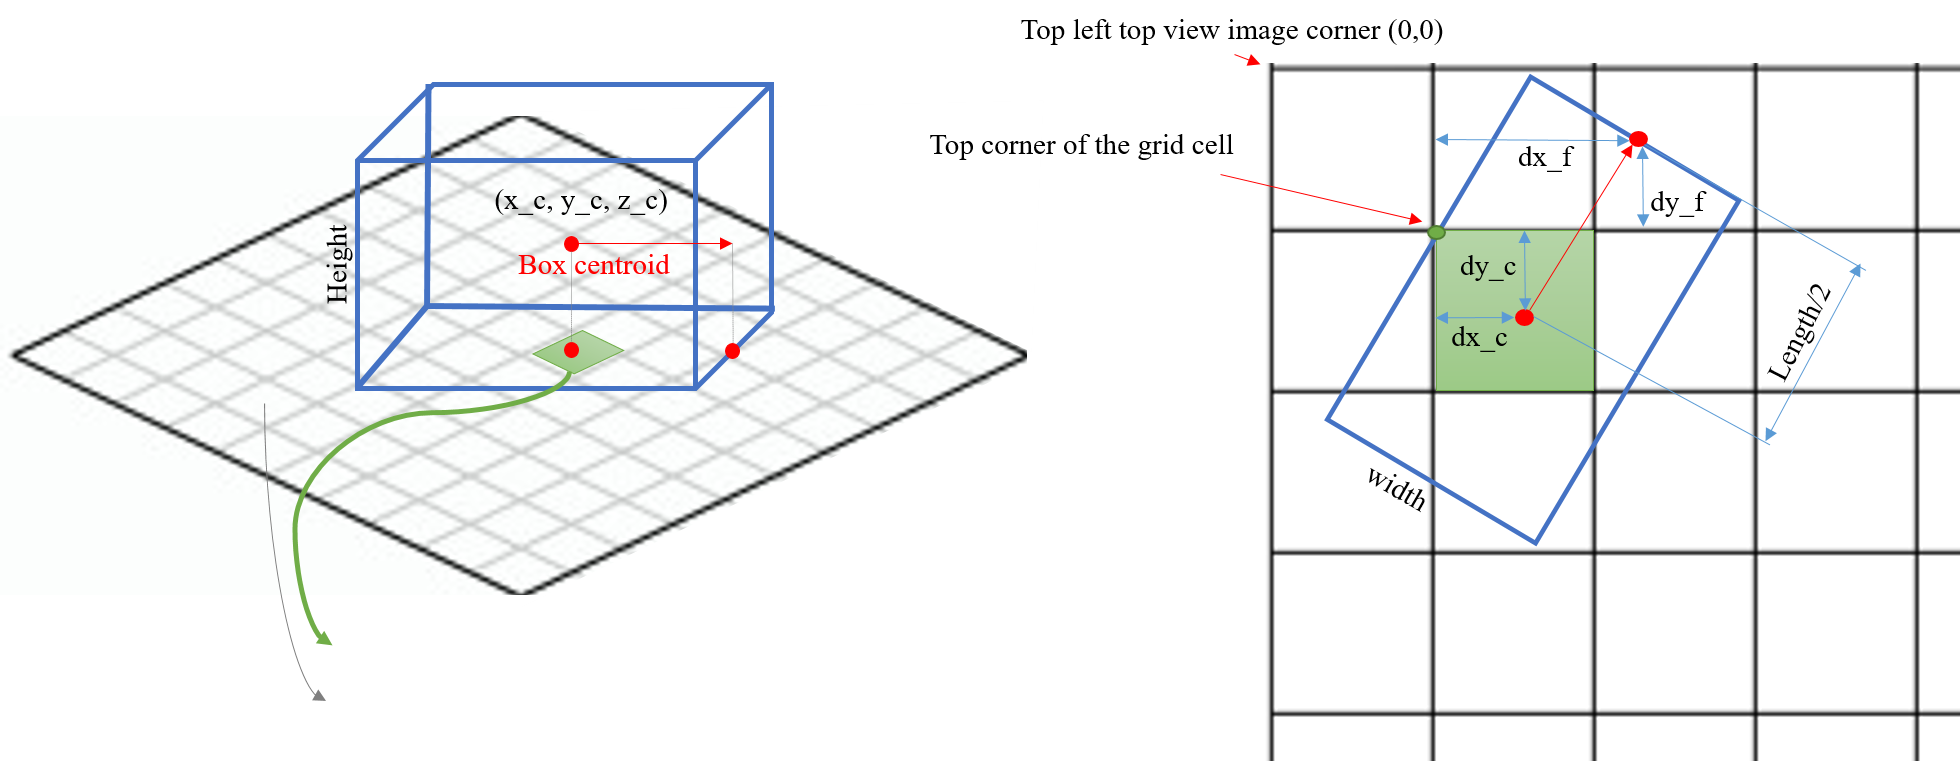
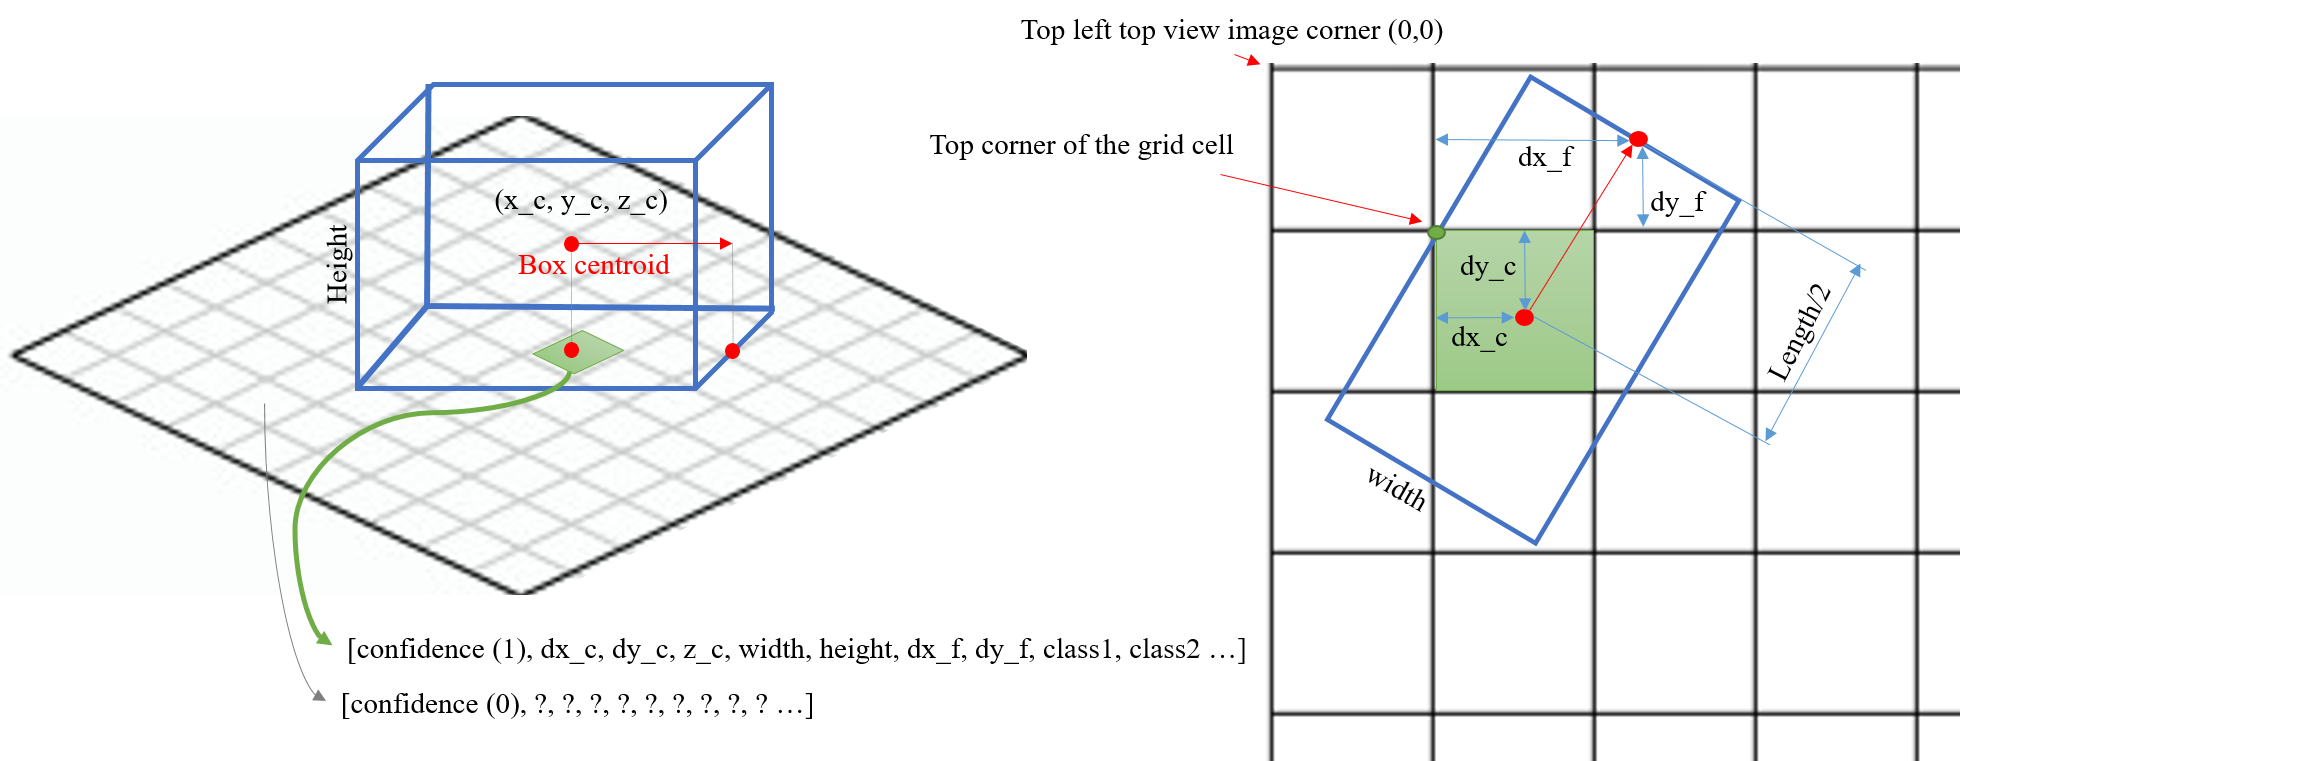
updated readme

Changed region(s): [[0.0, 0.0302, 1.0, 1.0], [0.1245, 0.9067, 0.3423, 0.9369]]

diff --git a/README.md b/README.md
@@ -13,6 +13,10 @@ We are doing direct regression of the 3D boxes, thus for each pixel of the image
 <p align="center">
   <img src="https://github.com/Dtananaev/lidar_dynamic_objects_detection/blob/master/pictures/box_parametrization.png" width="700"/>
 </p>
+We apply binary cross entrophy for confidence loss, l1 loss for all box parameters regression and softmax loss for classes regression.
+The confidence map computed from ground truth boxes. We assign the closest to the box centroid cell as confidence 1.0 (green on the image above)
+and 0 otherwise. We apply confidence loss for all the pixels. Other losses  applied only for those pixels where we have confidence ground truth 1.0. 
+
 The result of network (click on the image below)
 [![result](https://github.com/Dtananaev/lidar_dynamic_objects_detection/blob/master/pictures/result.png)](https://youtu.be/f_HZg9Cq-h4)
 The network weights could be loaded [weight](https://drive.google.com/file/d/1m8N5m2WXATgFNw88BRqEbUieiyV7p3S0/view?usp=sharing).
